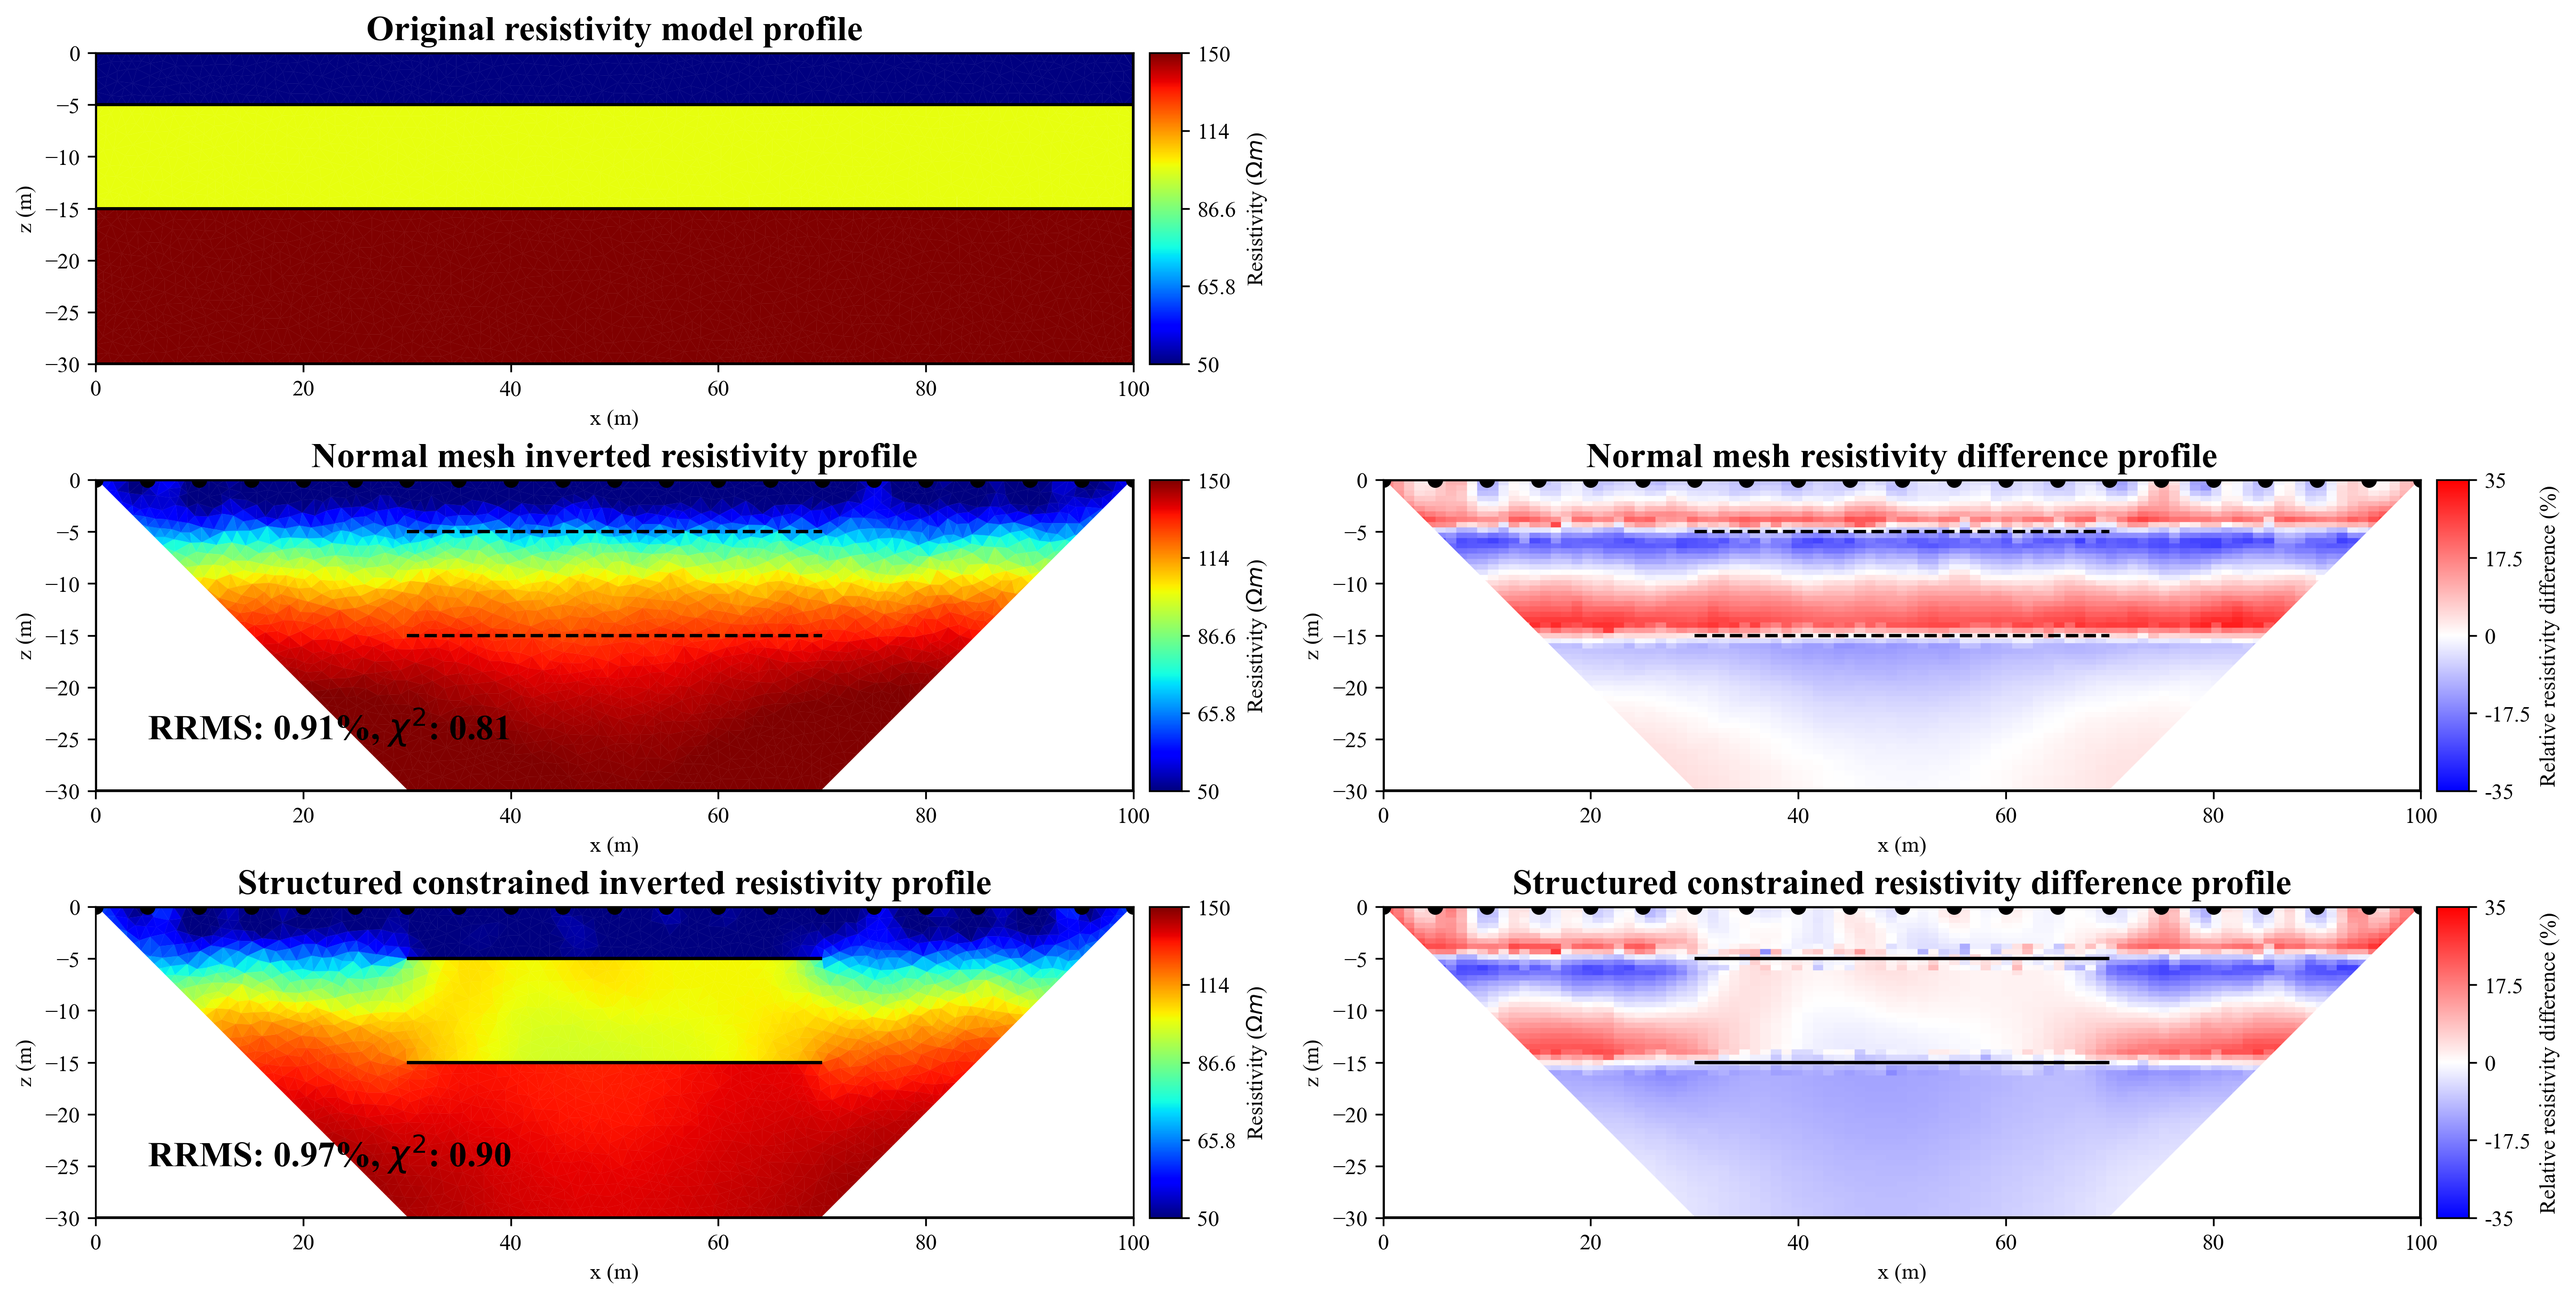
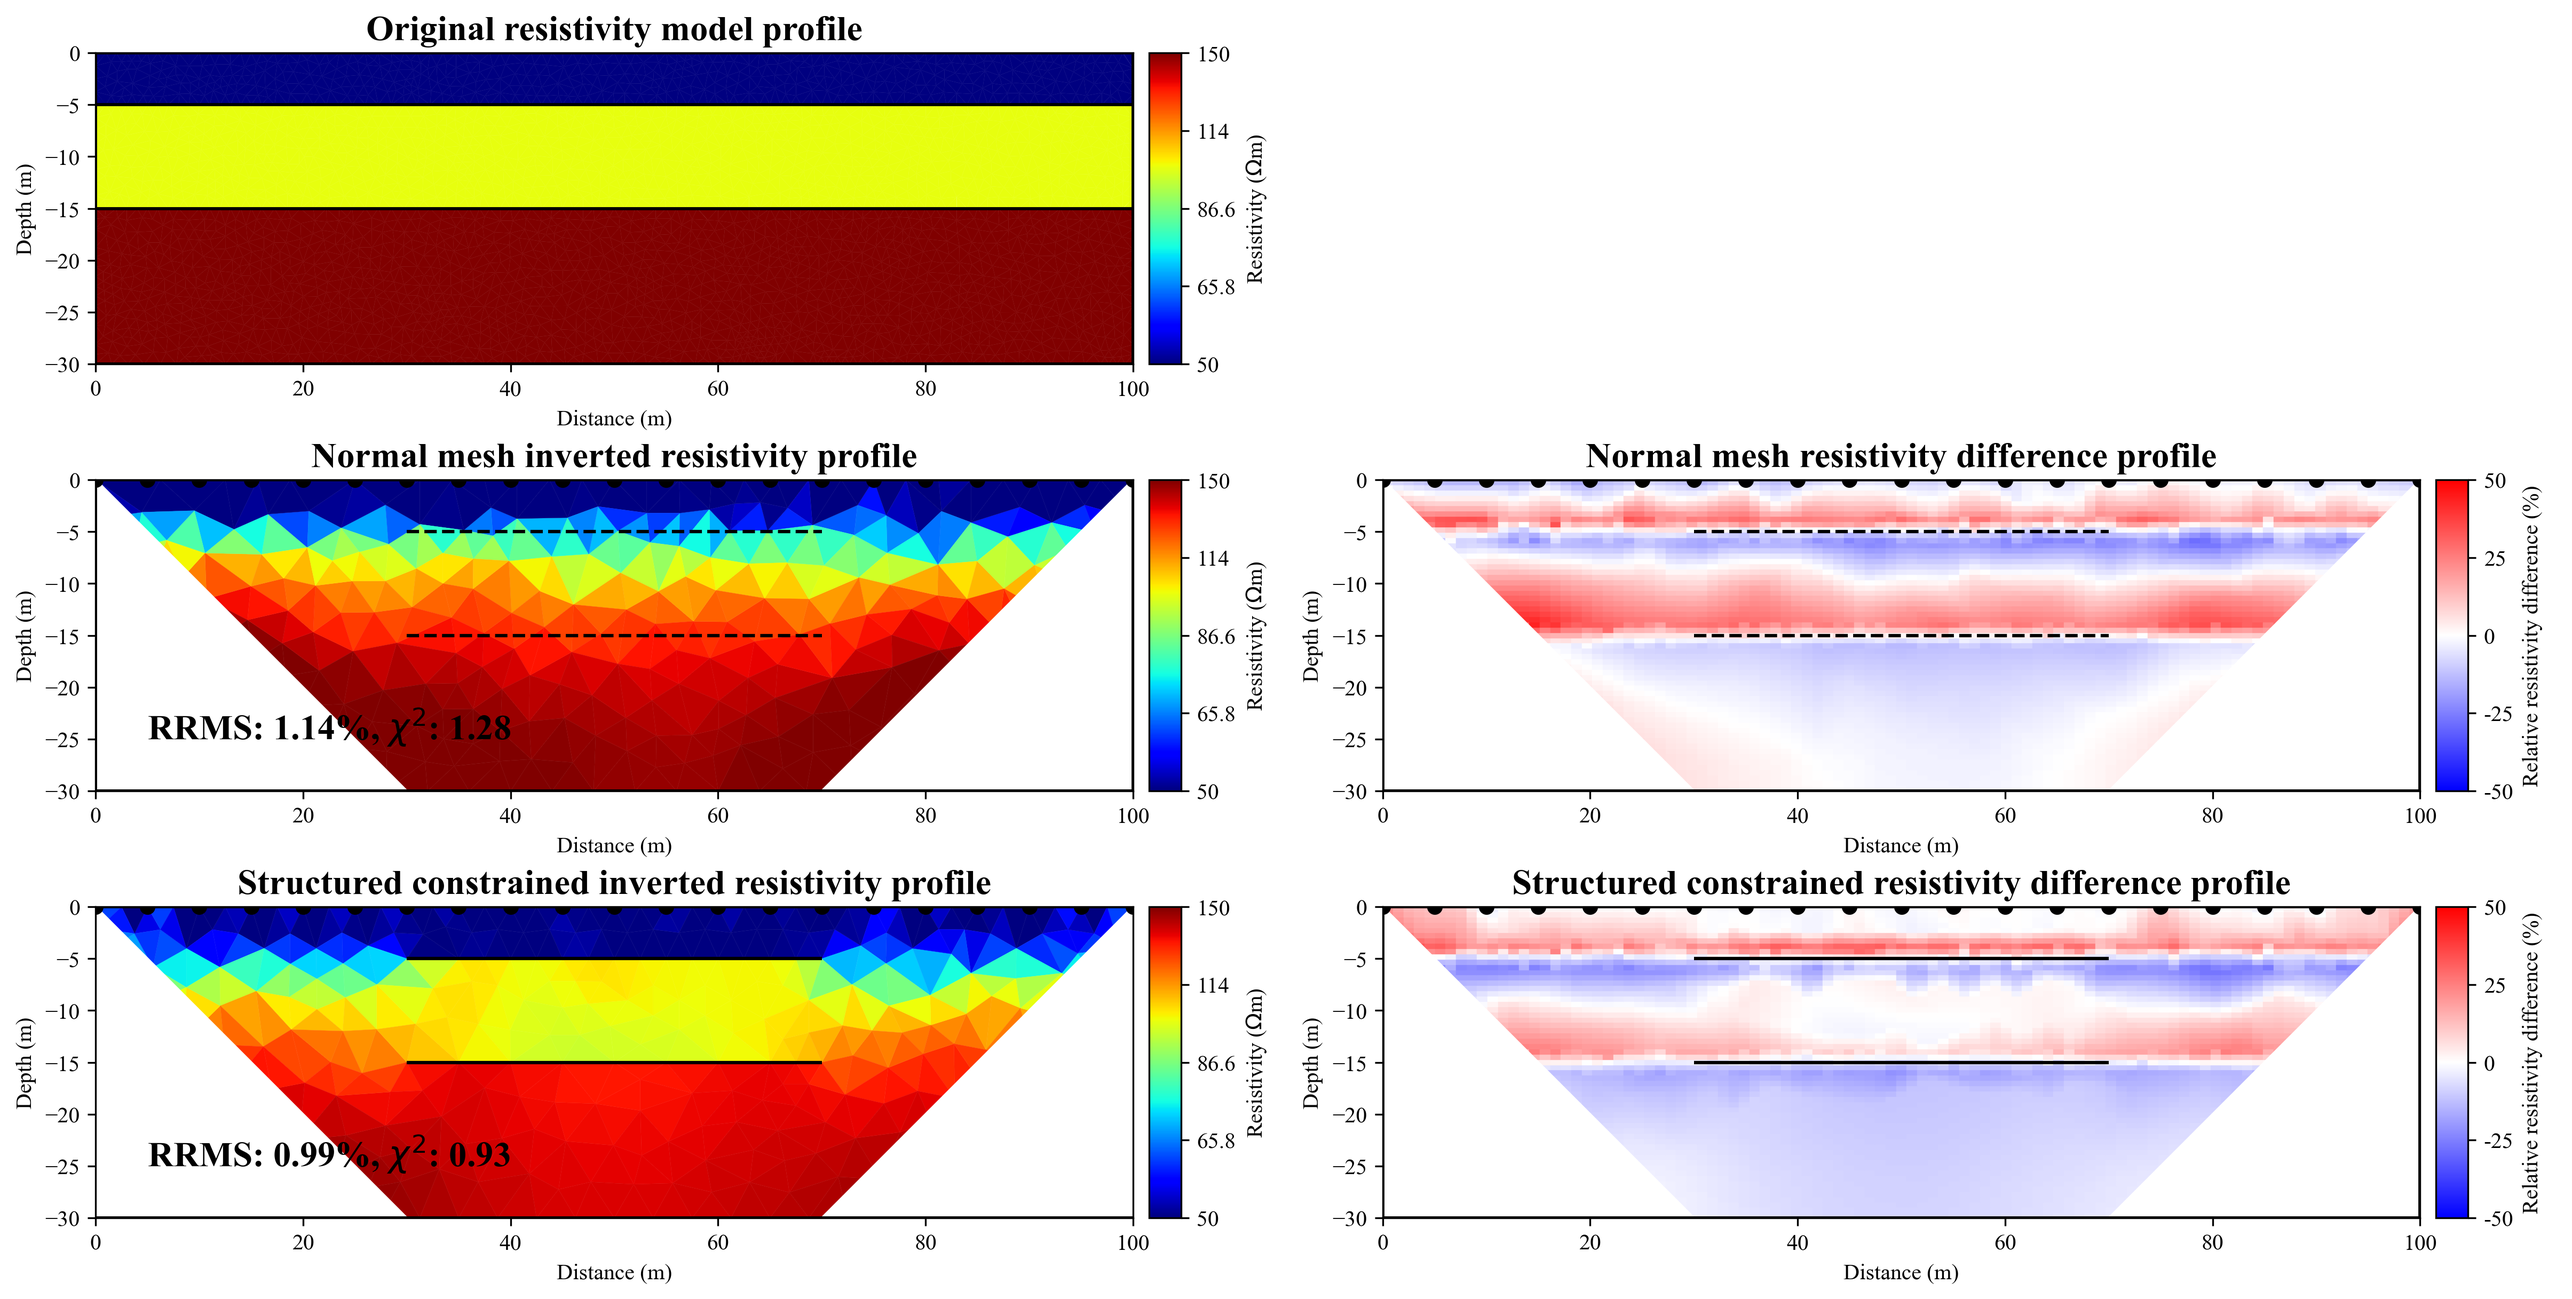
1. set the plotting kwarg 2. set area=10

diff --git a/synthetic_test/synthetic.py b/synthetic_test/synthetic.py
@@ -49,12 +49,15 @@ rhomap = [[1, 50.],
           [3, 150.]]
 
 # Take a look at the mesh and the resistivity distribution
-ax,_ = pg.show(mesh, 
-        data=rhomap, cMap='jet', logScale=True,
-        label=pg.unit('res'), 
-        showMesh=True)
-ax.set_xlabel('Distance (m)',fontsize=13)
-ax.set_ylabel('Depth (m)',fontsize=13)
+kw = dict(cMin=50, cMax=150, logScale=True, cMap='jet',
+          xlabel='Distance (m)', ylabel='Depth (m)', 
+          label=pg.unit('res'), orientation='vertical')
+ax, cb = pg.show(mesh, 
+        data=rhomap, 
+        showMesh=True,**kw)
+ax.set_xlabel(ax.get_xlabel(),fontsize=13)
+ax.set_ylabel(ax.get_ylabel(),fontsize=13)
+cb.ax.set_ylabel(cb.ax.get_ylabel(), fontsize=13)
 fig = ax.figure
 fig.savefig(join('results','layer.png'), dpi=300, bbox_inches='tight')
 # save the mesh to binary file
@@ -103,7 +106,7 @@ fig.savefig(join('results','electrode.png'), dpi=300, bbox_inches='tight')
 # %% Inversion using normal mesh (no prior layer scheme)
 world2 = mt.createWorld(start=[left, 0], end=[right, -depth], worldMarker=True)
 mesh2 = mt.createMesh(world2, 
-                     area=1,
+                     area=10,
                      quality=33)    # Quality mesh generation with no angles smaller than X degrees 
 ax,_ = pg.show(mesh2)
 ax.set_xlabel('Distance (m)',fontsize=13)
@@ -129,7 +132,7 @@ plc = interface1 + interface2 + plc
 pg.show(plc, markers=True)
 
 mesh3 = mt.createMesh(plc,
-                      area=1,
+                      area=10,
                       quality=33)    # Quality mesh generation with no angles smaller than X degrees
 ax,_ = pg.show(mesh3)
 ax.set_xlim(0, 100)
@@ -170,19 +173,12 @@ rho_grid = pg.interpolate(mesh, rho, grid.cellCenters())
 fig, ((ax1, ax2), (ax3, ax4), (ax5, ax6)) = plt.subplots(3,2, figsize=(16,8),constrained_layout=True)
 ax2.axis('off')
 # Subplot 1:Original resistivity model
-pg.viewer.showMesh(mesh, rhomap,ax=ax1,
-                    label='Resistivity ($\Omega m$)',
-                    logScale=True,cMap='jet',cMin=50,cMax=150,
-                    xlabel="x (m)", ylabel="z (m)",orientation = 'vertical')
+pg.viewer.showMesh(mesh, rhomap, ax=ax1, **kw)
 ax1.set_title('Original resistivity model profile',fontweight="bold", size=16)
 
 # Subplot 3:normal grid 
 rho_normal_grid = pg.interpolate(mesh2, mgr2.model, grid.cellCenters())
-pg.viewer.showMesh(mesh2, mgr2.model,#grid,data=rho_normal_grid,
-                   ax=ax3,
-                    label='Resistivity ($\Omega m$)',
-                    logScale=True,cMap='jet',cMin=50,cMax=150,
-                    xlabel="x (m)", ylabel="z (m)",orientation = 'vertical')
+pg.viewer.showMesh(mesh2, mgr2.model, ax=ax3,**kw)
 ax3.set_title('Normal mesh inverted resistivity profile',fontweight="bold", size=16)
 
 # plot a triangle
@@ -202,11 +198,7 @@ ax3.text(5,-25,'RRMS: {:.2f}%, $\chi^2$: {:.2f}'.format(
 
 # Subplot 5:structured constrained grid 
 rho_layer_grid = pg.interpolate(mgr3.paraDomain, mgr3.model, grid.cellCenters())
-pg.viewer.showMesh(mgr3.paraDomain, mgr3.model,#grid,data=rho_layer_grid,
-                    ax=ax5,
-                    label='Resistivity ($\Omega m$)',
-                    logScale=True,cMap='jet',cMin=50,cMax=150,
-                    xlabel="x (m)", ylabel="z (m)",orientation = 'vertical')
+pg.viewer.showMesh(mgr3.paraDomain, mgr3.model, ax=ax5, **kw)
 ax5.set_title('Structured constrained inverted resistivity profile',fontweight="bold", size=16)
 ax5.add_patch(plt.Polygon(triangle_left,color='white'))
 ax5.add_patch(plt.Polygon(triangle_right,color='white'))
@@ -220,14 +212,12 @@ ax5.text(5,-25,'RRMS: {:.2f}%, $\chi^2$: {:.2f}'.format(
             ,fontweight="bold", size=16)
 
 # Calculate the resistivity relative difference
+kw_compare = dict(cMin=-50, cMax=50, cMap='bwr',
+                  label='Relative resistivity difference (%)',
+                  xlabel='Distance (m)', ylabel='Depth (m)', orientation='vertical')
 # Subplot 4:Normal mesh resistivity residual
 residual_normal_grid = ((rho_normal_grid - rho_grid)/rho_grid)*100
-pg.viewer.showMesh(grid,data=residual_normal_grid,ax=ax4,
-                    label='Relative resistivity difference (%)',
-                #     logScale=True, 
-                    cMap='bwr', 
-                    cMin=-35,cMax=35,
-                    xlabel="x (m)", ylabel="z (m)",orientation = 'vertical')
+pg.viewer.showMesh(grid,data=residual_normal_grid,ax=ax4, **kw_compare)
 ax4.set_title('Normal mesh resistivity difference profile',fontweight="bold", size=16)
 ax4.add_patch(plt.Polygon(triangle_left,color='white'))
 ax4.add_patch(plt.Polygon(triangle_right,color='white'))
@@ -239,13 +229,7 @@ ax4.set_xlim(0,100)
 
 # Subplot 6:Layered mesh resistivity residual
 residual_layer_grid = ((rho_layer_grid - rho_grid)/rho_grid)*100
-pg.viewer.showMesh(grid,data=residual_layer_grid,ax=ax6,
-                    label='Relative resistivity difference (%)',
-                #     logScale=True, 
-                    cMap='bwr', 
-                    cMin=-35,cMax=35,
-                    xlabel="x (m)", ylabel="z (m)",orientation = 'vertical',
-                    )
+pg.viewer.showMesh(grid,data=residual_layer_grid,ax=ax6, **kw_compare)
 ax6.set_title('Structured constrained resistivity difference profile',fontweight="bold", size=16)
 ax6.add_patch(plt.Polygon(triangle_left,color='white'))
 ax6.add_patch(plt.Polygon(triangle_right,color='white'))
